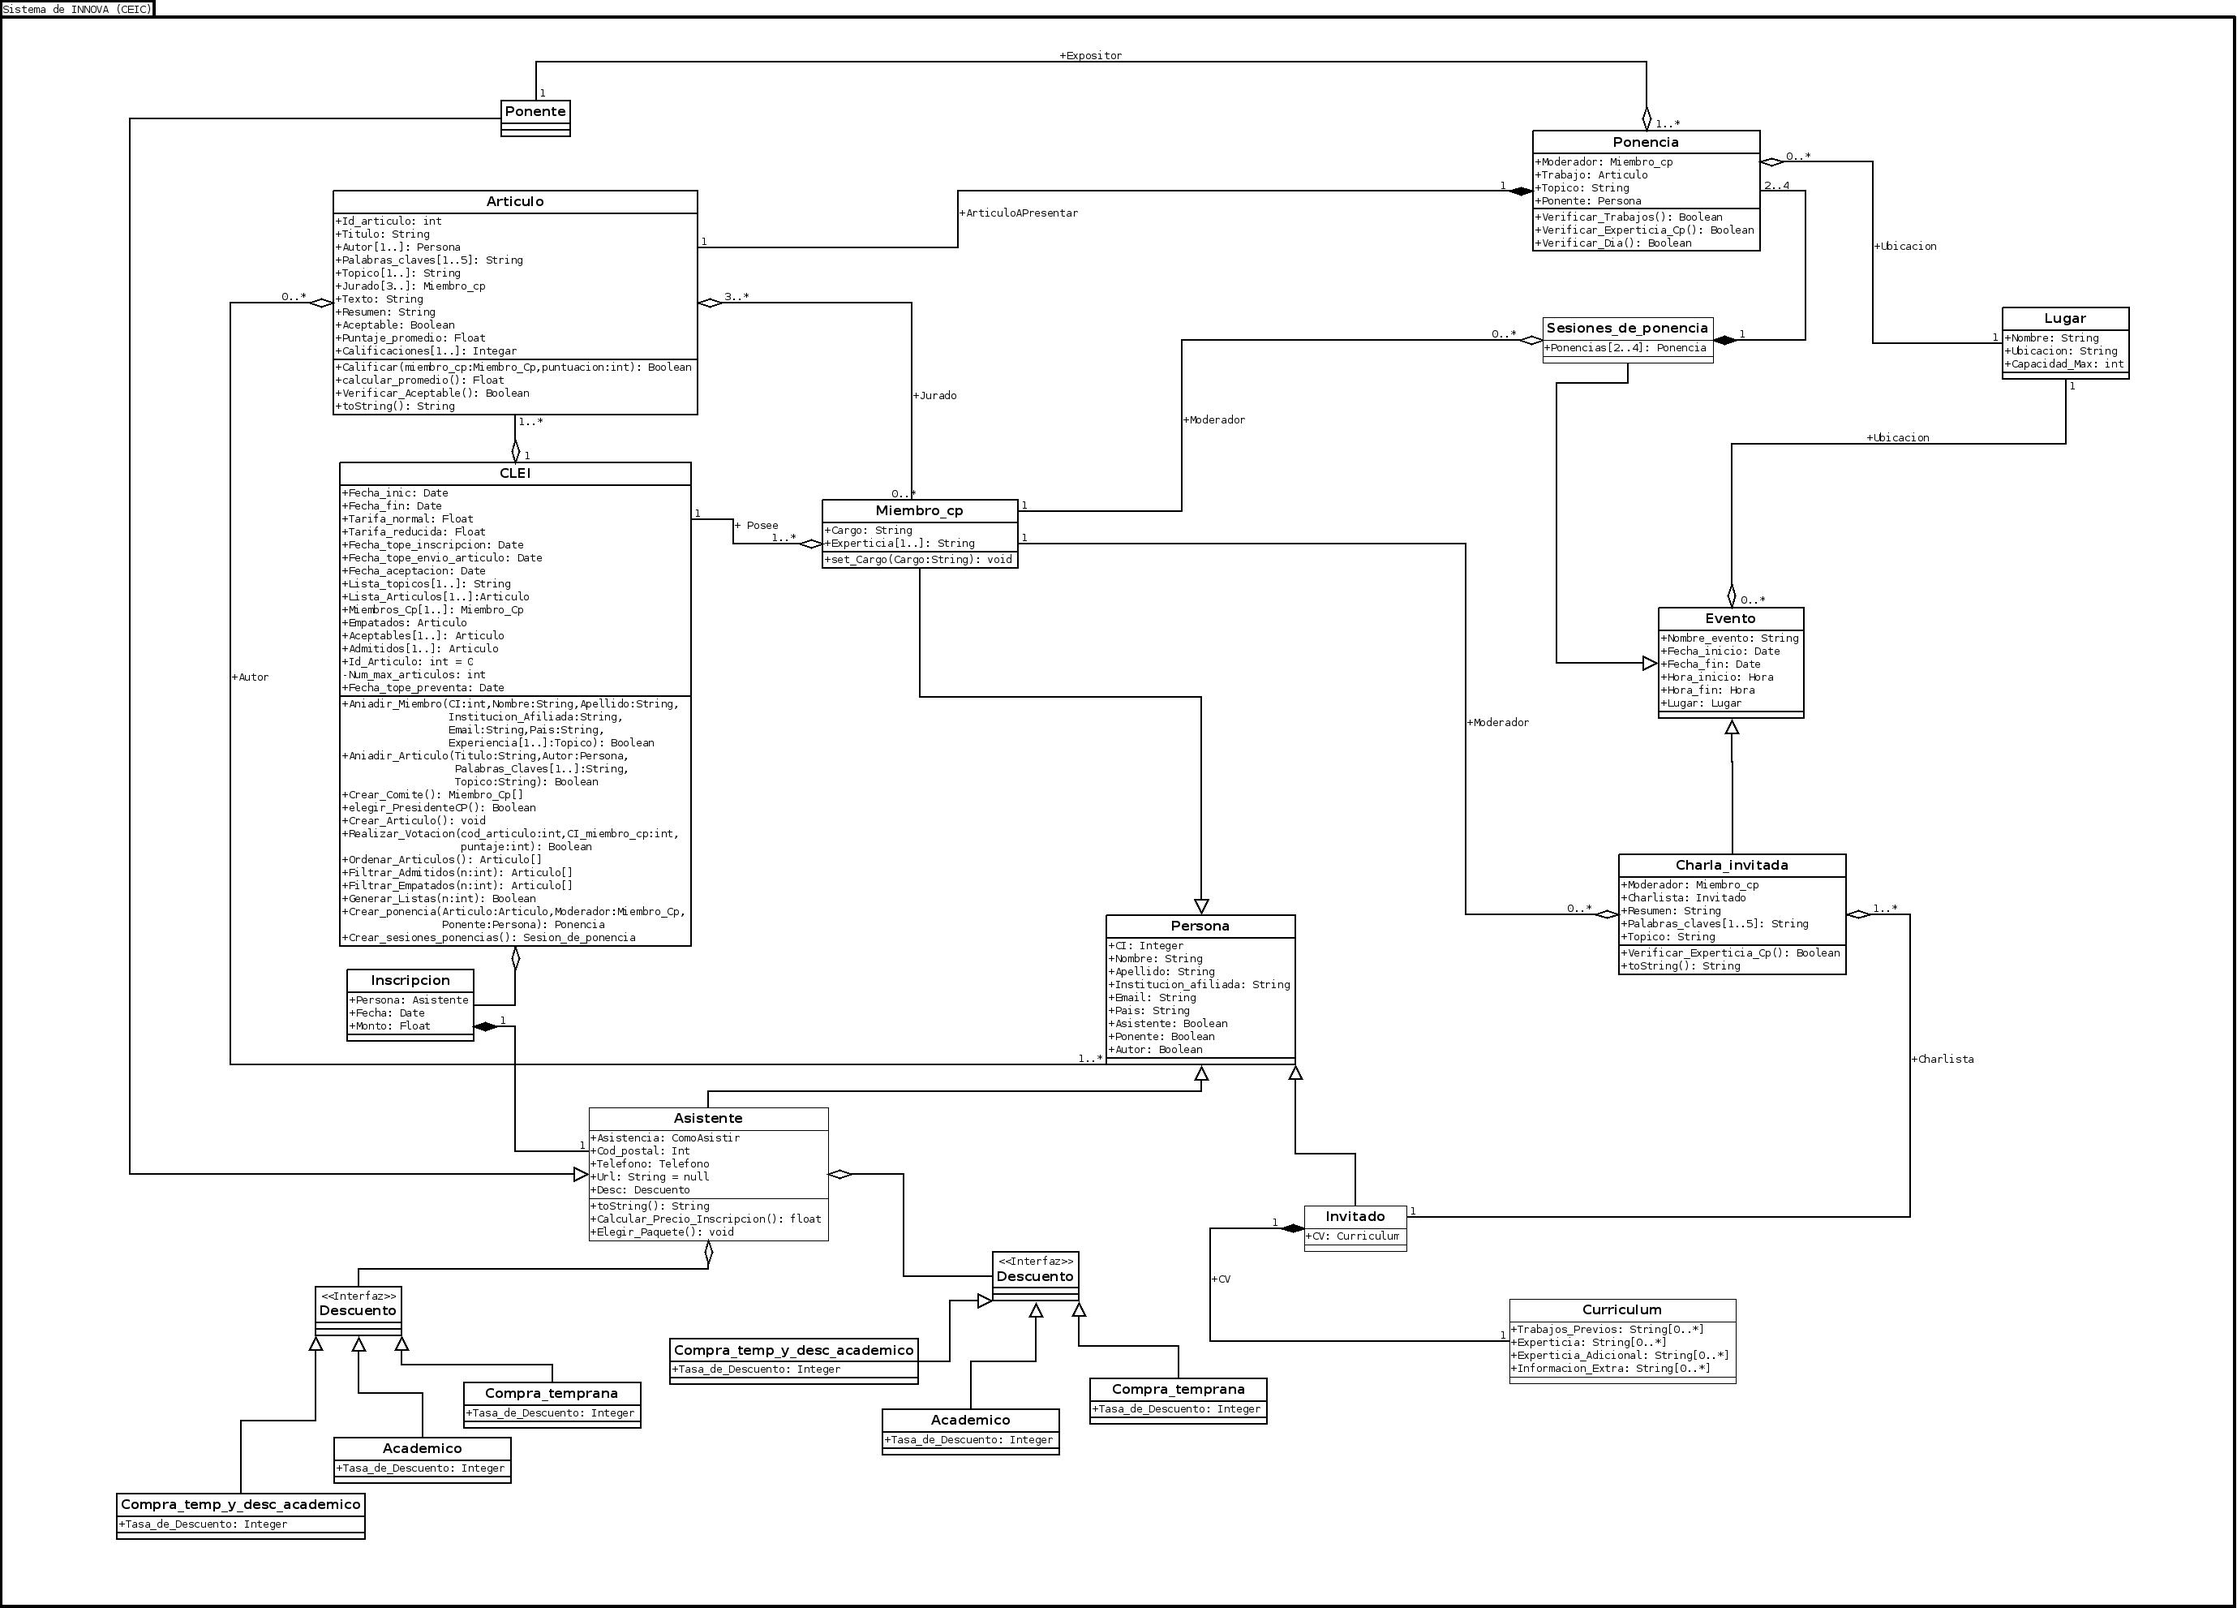
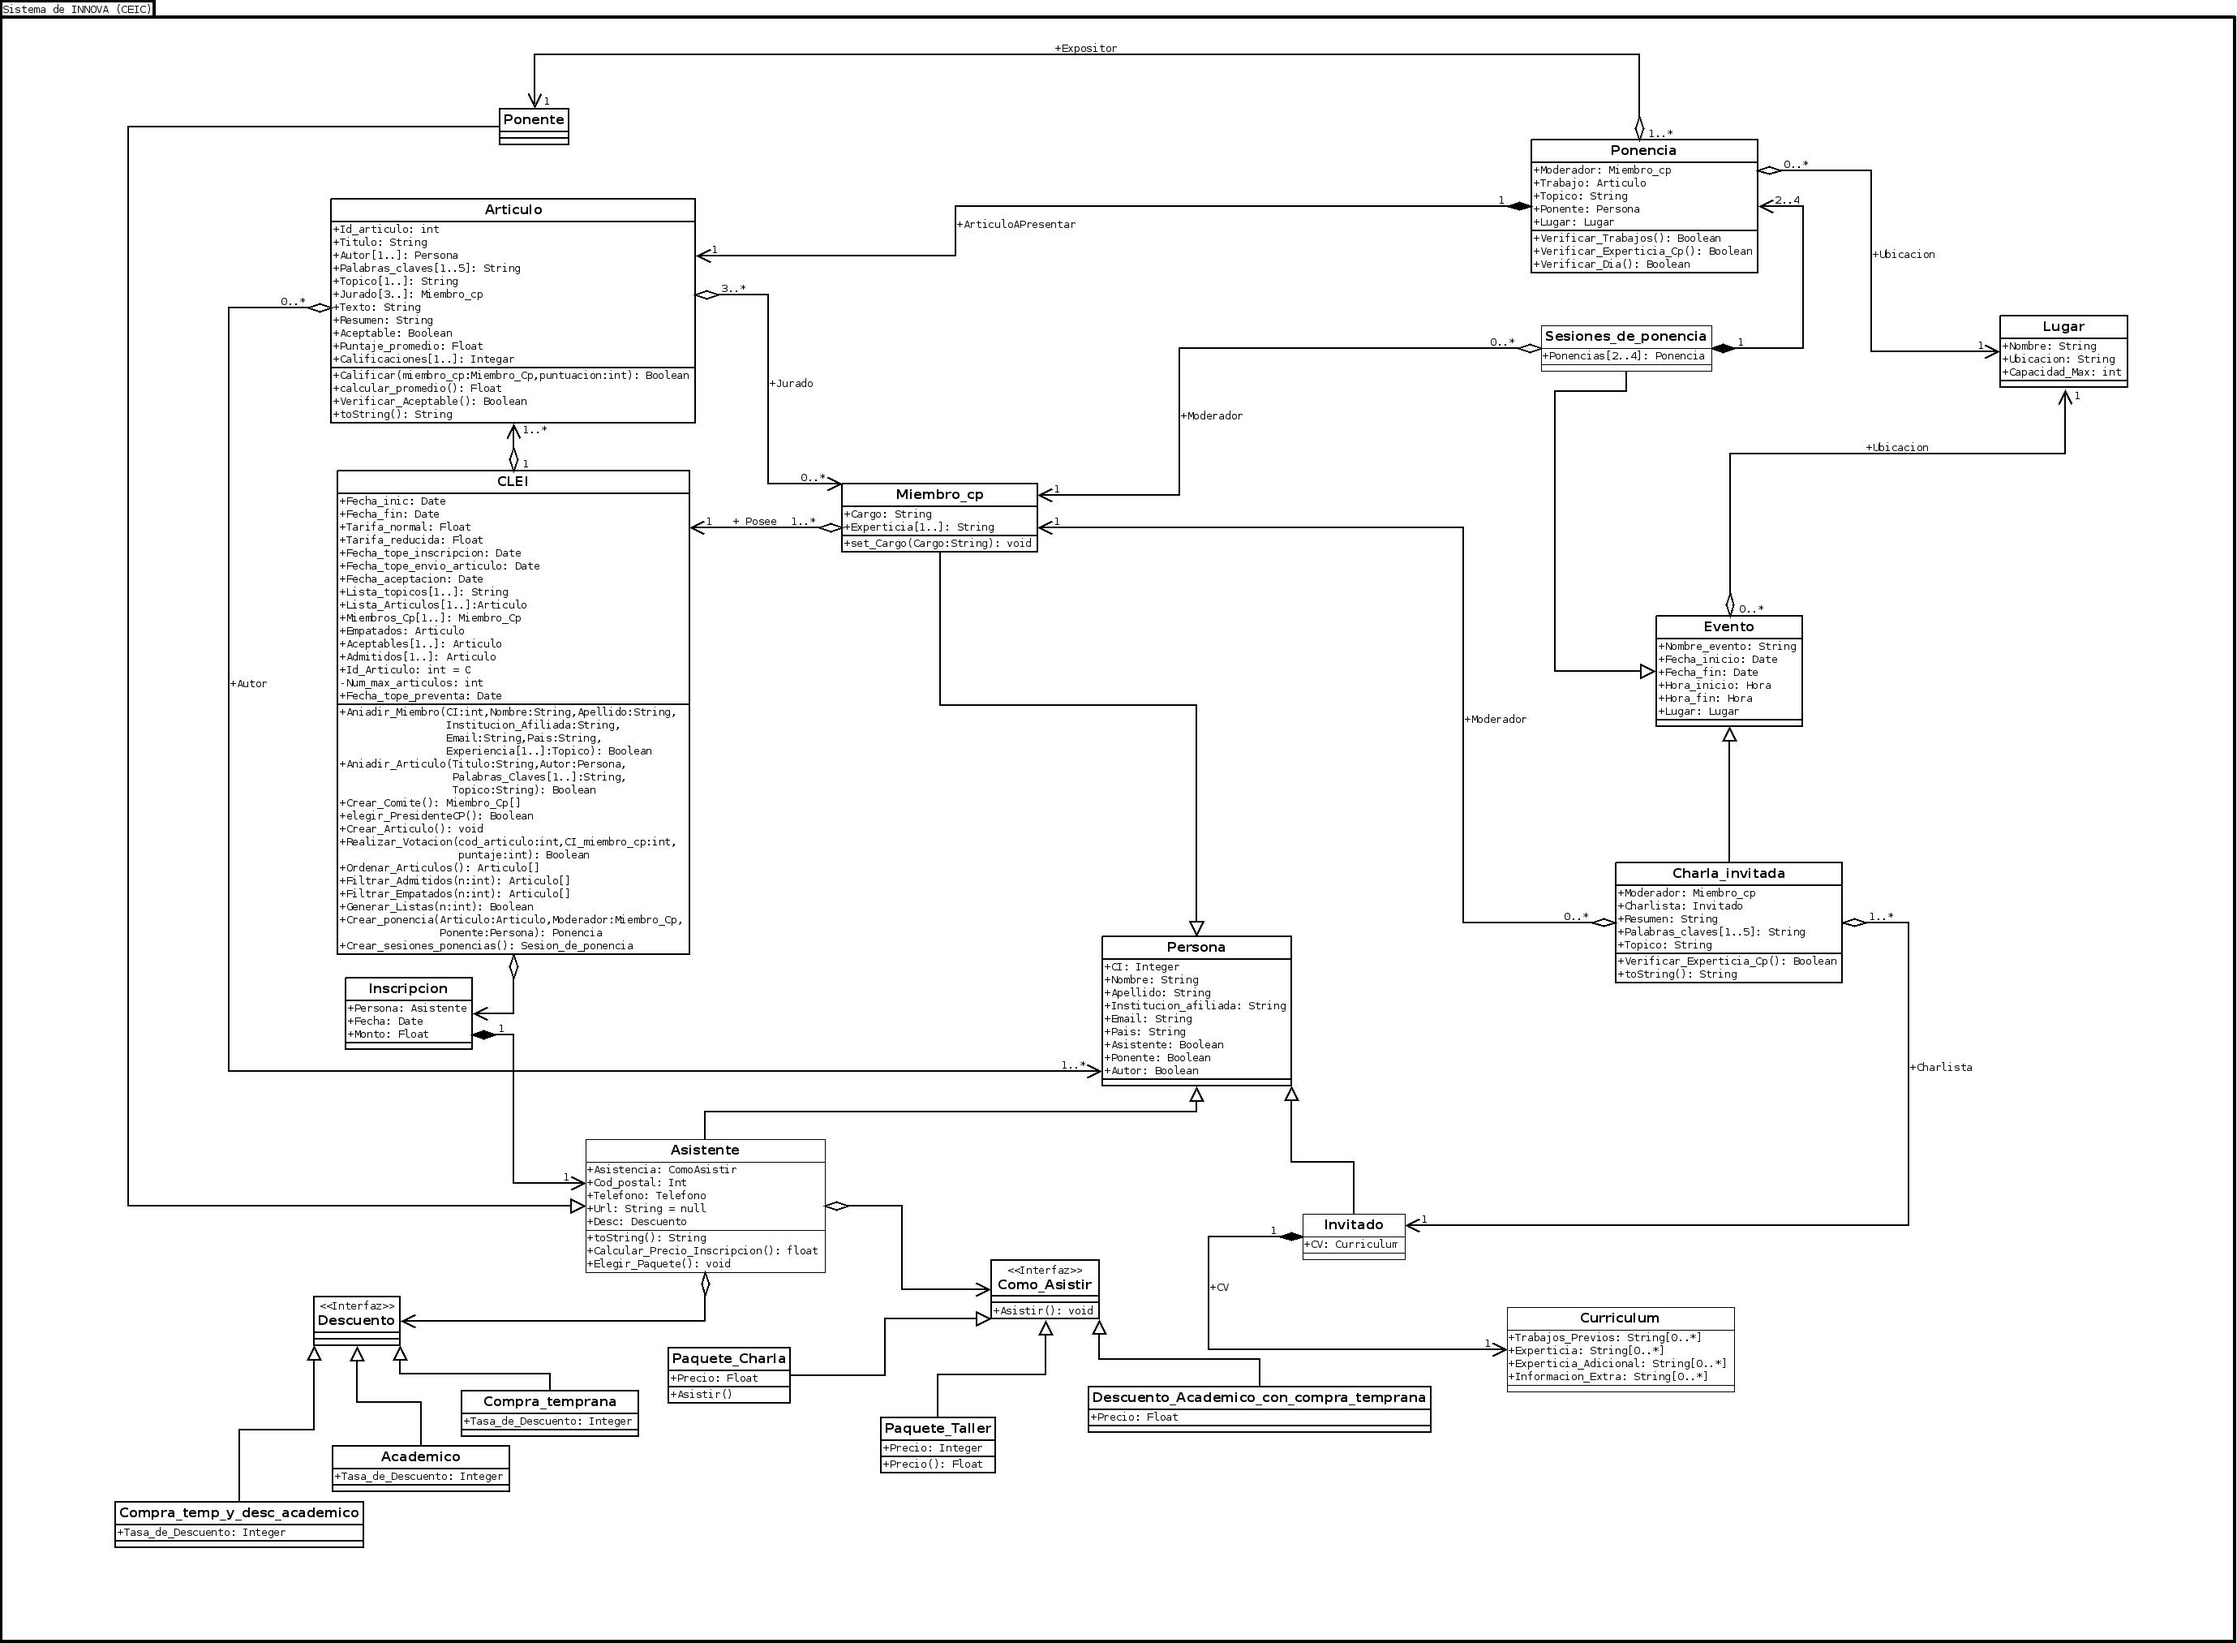
Cambios menores(esteticos) en el diagrama de clases  y comentarios en el codigo de las clases Persona y Evento

diff --git a/Coalicion/evento.py b/Coalicion/evento.py
@@ -1,21 +1,136 @@
 #!/usr/bin/python
 import datetime
+import lugar
+import Persona
 
-class Eventos(object):
+#*****************************************************************************
+# Clase : Evento
+#
+# Descripcion : Clase que implementa cada evento en  el CLEI
+#
+# Autores : 
+#           David Lilue       #  carnet: 09-10444
+#           Veronica Liniayo  #  carnet: 08-10615
+#           Audry Morillo     #  carnet: 07-41253
+#           Vanessa Rivas     #  carnet: 10-10608
+#           Michael Woo       #  carnet: 09-10912
+#
+# Grupo :1, 3, 4 
+# Seccion : 1
+#
+#*****************************************************************************
+
+class Evento(object):
     
-    def __init__(self, evento=None ):
-        if evento is None:
-            evento = []
-        self.evento = evento
+    def __init__(self, nombre, fecha_ini, fecha_fin, hora_ini, hora_fin, lugar):
 
-
-    def add(self,evento,diai, mesi, anioi, diaf, mesf, aniof, horai, mini, segi, horaf, minf, segf):
-        fechai = datetime.date(anioi,mesi,diai)
-        fechaf = datetime.date(aniof,mesf,diaf)
-        horai = datetime.time(horai,mini,segi)
-        horaf = datetime.time(horaf,minf,segf)
+        # hacer esto antes del constructor
+        # dia_ini, mes_ini, anio_ini, hora_ini, min_ini, dia_fin, mes_fin, anio_fin, hora_fin, min_fin
+        # self.fecha_fin = datetime.date(anio_fin,mes_fin,dia_fin)
+        # self.hora_ini = datetime.time(hora_ini,min_ini,0)
         
-        self.evento.append([evento,fechai, fechaf, horai,horaf])
+        self.nombre = nombre
+        self.fecha_ini = fecha_ini
+        self.fecha_fin = fecha_fin
+        self.hora_ini = hora_ini
+        self.hora_fin = hora_fin
+        self.lugar = lugar
         
     def __str__(self):
-        return str(self.evento)
+        
+        keys = self.__dict__.keys()
+        keys = sorted(keys, key=str.lower)
+        datos = ""
+        for n in keys:
+            datos += "\n%s: %s"%(n,str(self.__dict__[n]))
+        datos += "\n"
+        return datos
+
+#*****************************************************************************
+# Clase : Sesion_de_Ponencias
+#
+# Descripcion : Clase que hereda de Evento e implementa las sesiones de ponencias
+#           que se daran en  el CLEI
+#
+# Autores : 
+#           David Lilue       #  carnet: 09-10444
+#           Veronica Liniayo  #  carnet: 08-10615
+#           Audry Morillo     #  carnet: 07-41253
+#           Vanessa Rivas     #  carnet: 10-10608
+#           Michael Woo       #  carnet: 09-10912
+#
+# Grupo :1, 3, 4 
+# Seccion : 1
+#
+#***************************************************************************** 
+
+class Sesion_de_ponencias(Evento):
+
+    def __init__(self, nombre, fecha_ini, fecha_fin, hora_ini, hora_fin, lugar, ponencia1, ponencia2, ponencia3 = None, ponencia4 = None):
+
+        super(Sesion_de_ponencias, self).__init__(nombre, fecha_ini, fecha_fin, hora_ini, hora_fin, lugar)
+        self.ponencias = []
+        
+        self.ponencias.append(ponencia1)
+        self.ponencias.append(ponencia2)
+        if ponencia3 != None:
+            self.ponencias.append(ponencia3)
+            if ponencia4 != None:
+                self.ponencias.append(ponencia4)
+
+    def agregar_ponencia(self, ponencia):
+
+        if len(self.ponencias) < 4:
+            self.ponencias.append(ponencia)
+            return True
+        return False
+
+#*****************************************************************************
+# Clase : Charla_invitada
+#
+# Descripcion : Clase que hereda de Evento e implementa las charlas invitadas
+#           que se daran en  el CLEI
+#
+# Autores : 
+#           David Lilue       #  carnet: 09-10444
+#           Veronica Liniayo  #  carnet: 08-10615
+#           Audry Morillo     #  carnet: 07-41253
+#           Vanessa Rivas     #  carnet: 10-10608
+#           Michael Woo       #  carnet: 09-10912
+#
+# Grupo :1, 3, 4 
+# Seccion : 1
+#
+#***************************************************************************** 
+
+class Charla_invitada(Evento):
+
+    def __init__(self, nombre, fecha_ini, fecha_fin, hora_ini, hora_fin, lugar, moderador, charlista, resumen, palabras_claves, topico):
+
+        if not(topico in moderador.Experticia):
+            raise Exception
+
+        super(Charla_invitada, self).__init__(nombre, fecha_ini, fecha_fin, hora_ini, hora_fin, lugar)
+
+        self.moderador = moderador
+        self.charlista = charlista
+        self.resumen = resumen
+        self.palabras_claves = palabras_claves
+        self.topico = topico
+
+        
+#if __name__=="__main__":
+    
+#    fecha_ini1 = datetime.date(2013,12,19)
+ #   fecha_fin1 = datetime.date(2013,12,20)
+  #  hora_ini1 = datetime.time(8,0,0)
+  #  hora_fin1 = datetime.time(9,0,0)
+  #  moderador1 = Persona.Miembro_Cp(4,"Jose", "Camejo","USB", "jc@usb.ve","Venezuela ", ["op", "bd"])
+    
+  #  try:
+  #      p = Charla_invitada("Charlita",fecha_ini1, fecha_fin1, hora_ini1, hora_fin1,"Mys",moderador1, "Marlene", "resumen", "Clave", "op")
+  #      print p
+  #  except:
+   #     print '\nEl moderador es bruto D:\n'
+
+        

diff --git a/Coalicion/Persona.py b/Coalicion/Persona.py
@@ -1,11 +1,16 @@
 #*****************************************************************************
-# Clase : Persona.py
+# Clase : Persona
 #
 # Descripcion : Clase que implementa las Personas que participan en  el CLEI
 #
-# Autores : Vanessa Rivas . #  carnet: 10-10608
-#           Gabriel Russo   #  carnet  08-11021
-# Grupo :1 
+# Autores : 
+#           David Lilue       #  carnet: 09-10444
+#           Veronica Liniayo  #  carnet: 08-10615
+#           Audry Morillo     #  carnet: 07-41253
+#           Vanessa Rivas     #  carnet: 10-10608
+#           Michael Woo       #  carnet: 09-10912
+#
+# Grupo :1, 3, 4 
 # Seccion : 1
 #
 #*****************************************************************************
@@ -25,7 +30,8 @@ class Persona(object):
     def __str__(self):
         
         keys = self.__dict__.keys()
-        datos = ""
+        keys = sorted(keys, key=str.lower)
+        datos = "\n"
         for n in keys:
             datos += "\n%s: %s"%(n,str(self.__dict__[n]))
         datos += "\n"
@@ -33,14 +39,19 @@ class Persona(object):
 
 
 #*****************************************************************************
-# Clase : Inscrito
+# Clase : Asistente
 #
 # Descripcion : Clase que hereda de Persona e implementa las Personas
 #           inscritas que participan en  el CLEI
 #
-# Autores : Vanessa Rivas . #  carnet: 10-10608
-#           Gabriel Russo   #  carnet  08-11021
-# Grupo :1 
+# Autores : 
+#           David Lilue       #  carnet: 09-10444
+#           Veronica Liniayo  #  carnet: 08-10615
+#           Audry Morillo     #  carnet: 07-41253
+#           Vanessa Rivas     #  carnet: 10-10608
+#           Michael Woo       #  carnet: 09-10912
+#
+# Grupo :1, 3, 4 
 # Seccion : 1
 #
 #*****************************************************************************        
@@ -49,7 +60,7 @@ class Asistente(Persona):
     
     def __init__(self, CI, Nombre, Apellido, Institucion_Afiliada, Email, Pais, Ponente, Autor, Cod_Postal, Telefono, Url= None):
         """Constructor"""
-        super(Asistente, self).__init__(CI, Nombre, Apellido, Institucion_Afiliada, Email, Pais)
+        super(Asistente, self).__init__(CI, Nombre, Apellido, Institucion_Afiliada, Email, Pais, Url)
         self.Ponente = Ponente
         self.Autor = Autor
         self.Cod_Postal = Cod_Postal
@@ -62,17 +73,22 @@ class Asistente(Persona):
 # Descripcion : Clase que hereda de Persona e implementa las Personas
 #           que forman parte del Comite de programa  el CLEI
 #
-# Autores : Vanessa Rivas . #  carnet: 10-10608
-#           Gabriel Russo   #  carnet  08-11021
-# Grupo :1 
+# Autores : 
+#           David Lilue       #  carnet: 09-10444
+#           Veronica Liniayo  #  carnet: 08-10615
+#           Audry Morillo     #  carnet: 07-41253
+#           Vanessa Rivas     #  carnet: 10-10608
+#           Michael Woo       #  carnet: 09-10912
+#
+# Grupo :1, 3, 4 
 # Seccion : 1
 #
 #*****************************************************************************    
 class Miembro_Cp(Persona):
     
-    def __init__(self, CI, Nombre, Apellido, Institucion_Afiliada, Email, Pais, Experiencia = None):
+    def __init__(self, CI, Nombre, Apellido, Institucion_Afiliada, Email, Pais, Experticia = None, Url = None):
         """Constructor"""
-        super(Miembro_Cp, self).__init__(CI, Nombre, Apellido, Institucion_Afiliada, Email, Pais)
+        super(Miembro_Cp, self).__init__(CI, Nombre, Apellido, Institucion_Afiliada, Email, Pais, Url)
         self.Presidente = False
         self.Experticia = Experticia
     
